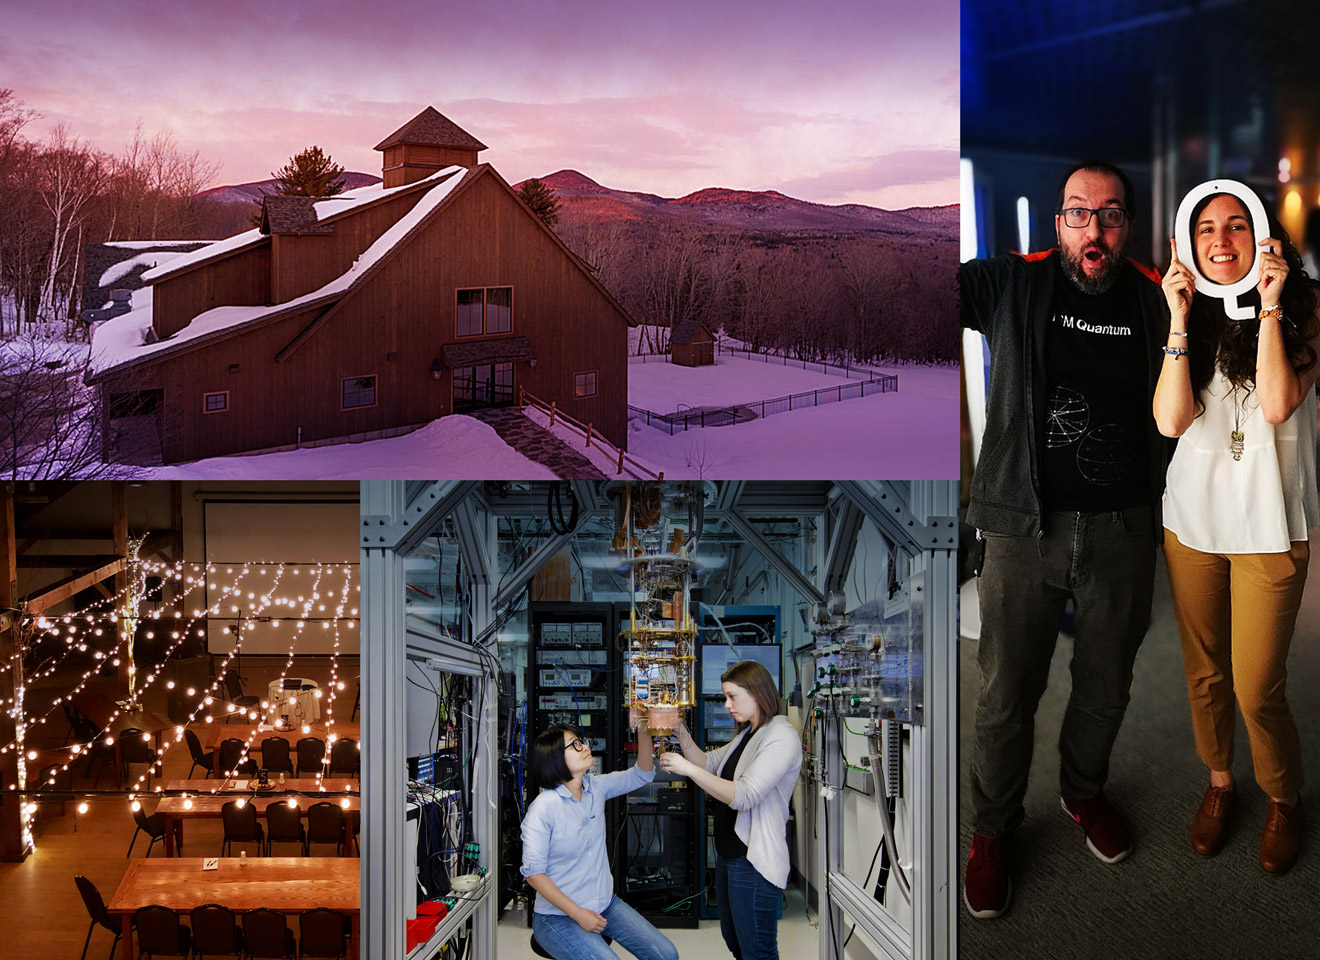
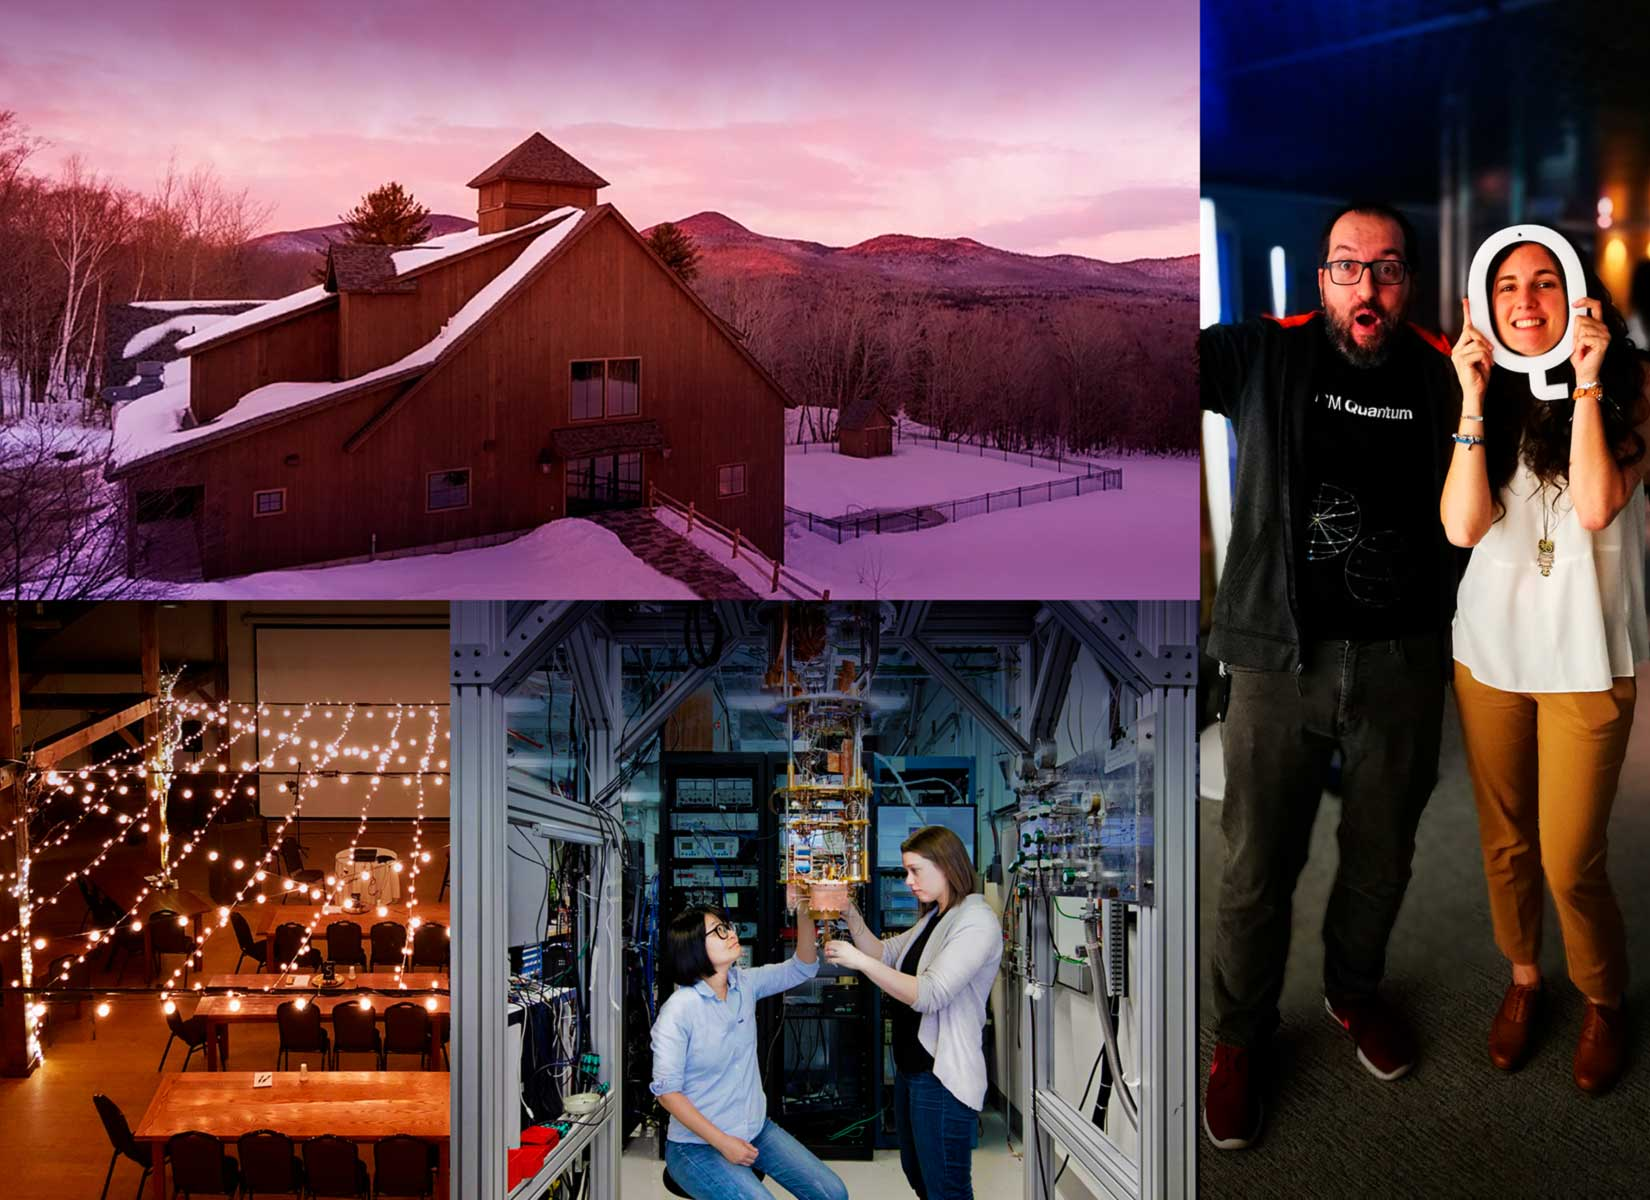
Adding the high resolution header version

diff --git a/index.html b/index.html
@@ -18,7 +18,7 @@
           <p>Bringing together the Qiskit community</p>
           <p><strong><time datetime="2019-02-26">Feb 26th</time> &mdash;
             <time datetime="2019-03-01">Mar 1st</time></strong></p>
-          <a href="#" class="sign-up">Sign Up for Updates</a>
+          <!--<a href="#" class="sign-up">Sign Up for Updates</a>-->
       </div>
       <div class="scroll-down">
         <p>Scroll down for more details</p>
@@ -36,12 +36,12 @@
         <h3><strong><time datetime="2019-02-26">Feb 26</time></strong><br/><a target="_blank" href="https://www.research.ibm.com/ibm-q/learn/what-is-ibm-q/">IBM Research Headquarters</a><br/>Yorktown Heights, NY</h3>
         <p>One day conference with talks and training sessions with the Qiskit core team, including a visit to the lab to see real quantum computers.</p>
     </div>
-    <iframe src="https://www.google.com/maps/embed?pb=!1m18!1m12!1m3!1d8307.831526242144!2d-73.80752018446626!3d41.20913802994033!2m3!1f0!2f0!3f0!3m2!1i1024!2i768!4f13.1!3m3!1m2!1s0x89c2b84f4fe21b2f%3A0x457b245b452ccf23!2sIBM+Thomas+J.+Watson+Research+Center!5e0!3m2!1sen!2ses!4v1544474795702" width="100%" height="450" frameborder="0" style="border:0" allowfullscreen></iframe>
+    <iframe title="Thomas J. Watson Research Center location in Google Maps" src="https://www.google.com/maps/embed?pb=!1m18!1m12!1m3!1d8307.831526242144!2d-73.80752018446626!3d41.20913802994033!2m3!1f0!2f0!3f0!3m2!1i1024!2i768!4f13.1!3m3!1m2!1s0x89c2b84f4fe21b2f%3A0x457b245b452ccf23!2sIBM+Thomas+J.+Watson+Research+Center!5e0!3m2!1sen!2ses!4v1544474795702" width="100%" height="450" frameborder="0" style="border:0" allowfullscreen></iframe>
     <div class="content">
         <h3><strong><time datetime="2019-02-27">Feb 27</time>-<time datetime="2019-03-01">Mar 1</time></strong><br/><a target="_blank" href="https://mountaintopinn.com/gallery/">Mountain Top Resort</a><br/>Killington, VT</h3>
         <p>24-hour hackathon, awards, after-party and winter snow activities.</p>
     </div>
-    <iframe src="https://www.google.com/maps/embed?pb=!1m18!1m12!1m3!1d2883.0707649708597!2d-72.93972464838822!3d43.72985677901623!2m3!1f0!2f0!3f0!3m2!1i1024!2i768!4f13.1!3m3!1m2!1s0x4cb5331f8662a3df%3A0xe48887aa52db9b91!2sMountain+Top+Inn+%26+Resort!5e0!3m2!1sen!2ses!4v1544474924002" width="100%" height="450" frameborder="0" style="border:0" allowfullscreen></iframe>
+    <iframe title="Mountain Top Inn & Resort location in Google Maps" src="https://www.google.com/maps/embed?pb=!1m18!1m12!1m3!1d2883.0707649708597!2d-72.93972464838822!3d43.72985677901623!2m3!1f0!2f0!3f0!3m2!1i1024!2i768!4f13.1!3m3!1m2!1s0x4cb5331f8662a3df%3A0xe48887aa52db9b91!2sMountain+Top+Inn+%26+Resort!5e0!3m2!1sen!2ses!4v1544474924002" width="100%" height="450" frameborder="0" style="border:0" allowfullscreen></iframe>
     <h2>Apply for an inviation!</h2>
     <div class="content">
       <p>This is an invitation-only event. Students, researchers, educators, and developers are all encouraged to apply.</p>

diff --git a/style/style.css b/style/style.css
@@ -44,12 +44,12 @@ header {
   height: 100vh;
   color: white;
   text-align: center;
-  background: url('../img/bg-low-res.jpg');
+  background: url('../img/bg-hi-res.jpg'), url('../img/bg-low-res.jpg');
   background-size: cover;
   background-position: 50%;
   background-position: center;
   background-attachment: fixed;
-  background-color: #865694;
+  background-color: rgb(103, 58, 183);;
   display: flex;
   flex-direction: column;
   justify-content: center;
